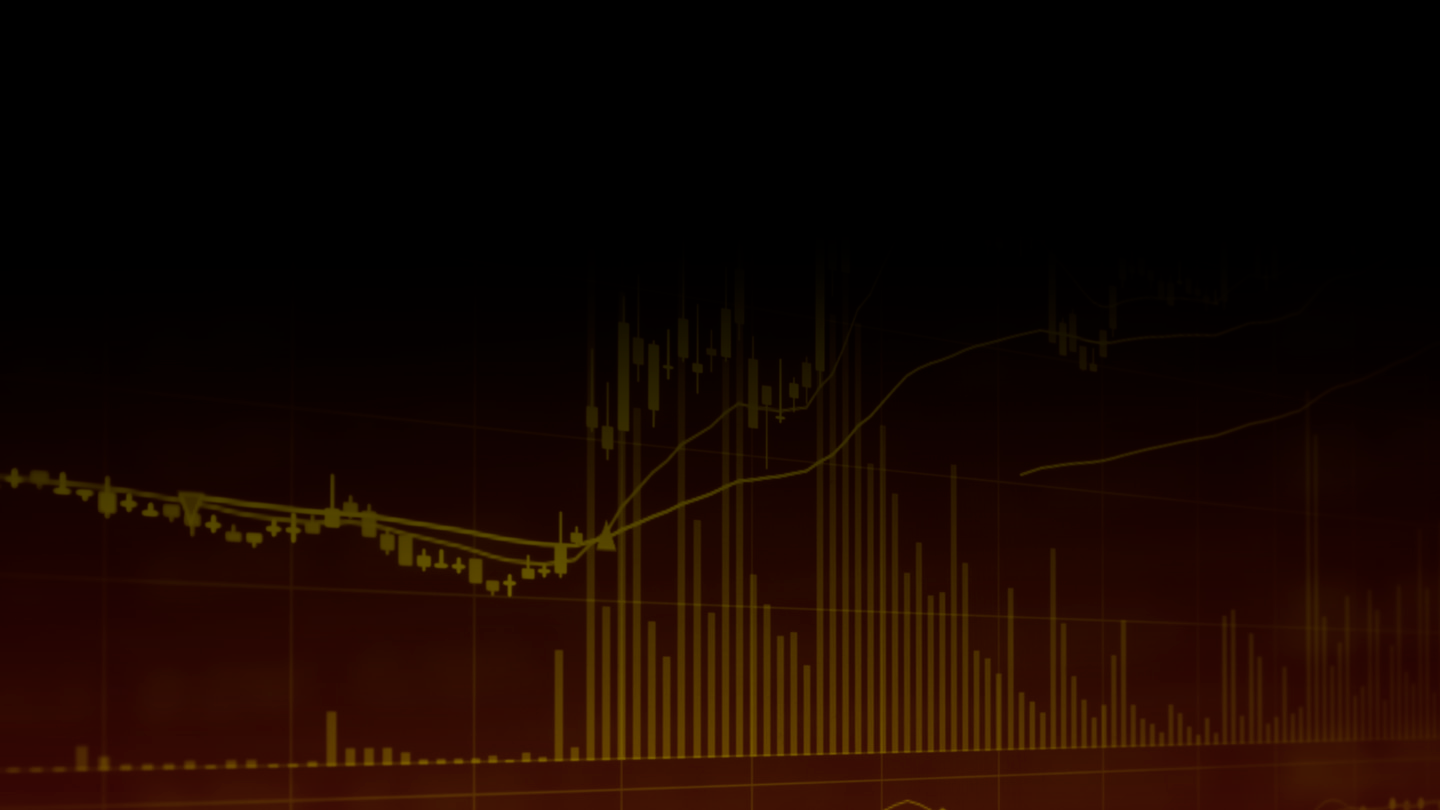
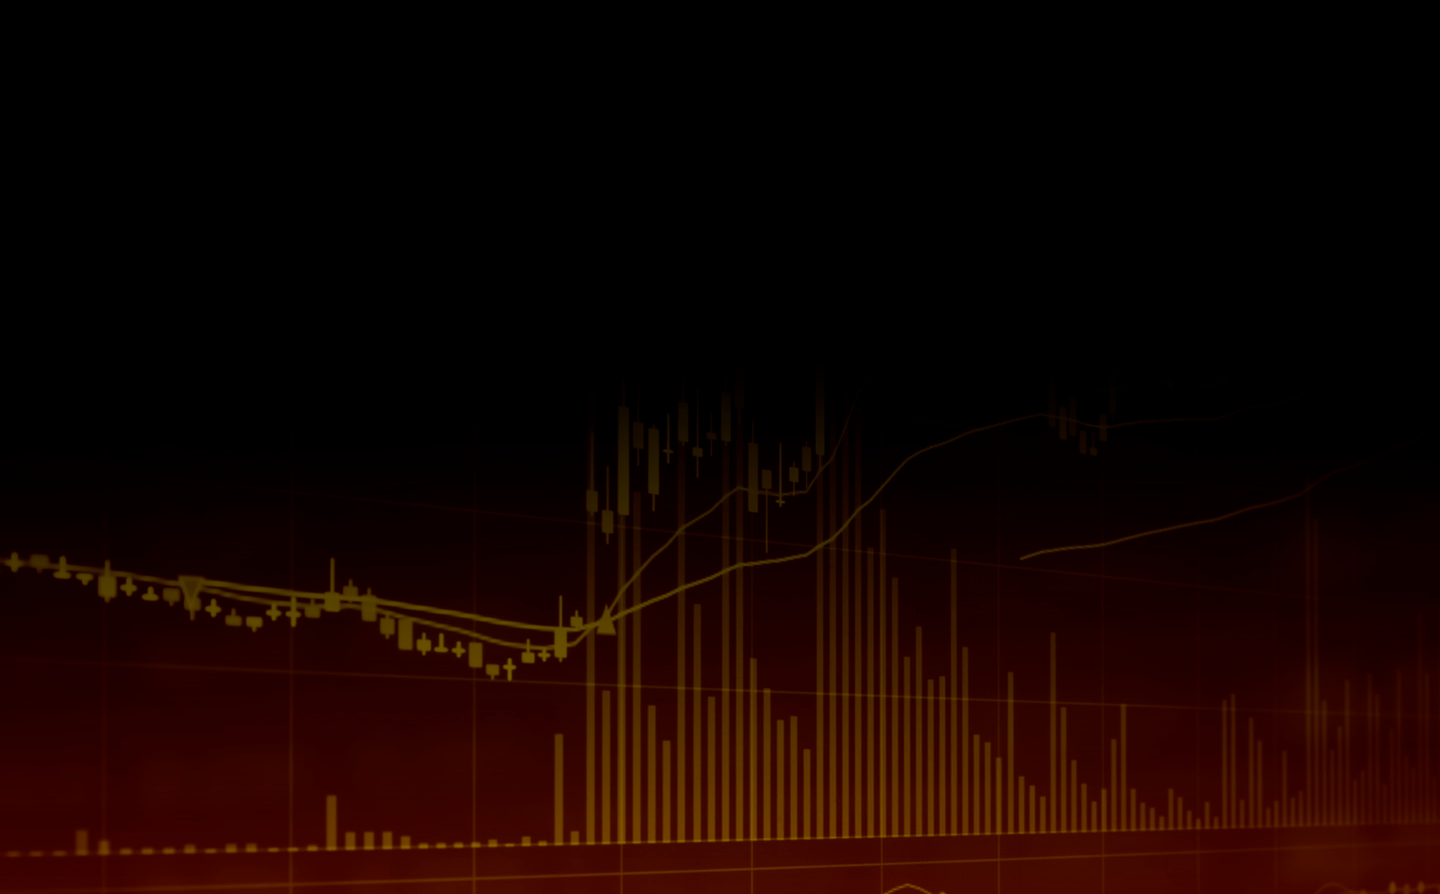
Correção de bugs imagem da section ead

diff --git a/style.css b/style.css
@@ -494,6 +494,12 @@ i.fa.fa-user {
 .store-area {
   background:#000;
   padding: 120px;
+  z-index: 999999;
+  background: linear-gradient(to bottom right, #18191e 50%, transparent 50.5%) no-repeat bottom, 
+  /* bottom part */ linear-gradient(0deg, #18191e, #18191e) no-repeat top;
+  color: white;
+  padding-bottom: 3em;
+  background-size: 100% 3em, 100% calc(105% - 5em);
 }
 .store-area .blog_content .blog_item {
   margin-bottom: 30px;
@@ -578,9 +584,8 @@ i.fa.fa-user {
   font-size: 20px;
 }
 .store-area .blog_content .owl-nav {
-  display: block;
+  display: none;
 }
-
 
 /* :: 6.0 Welcome Area CSS */
 .hero-slides {
@@ -680,10 +685,9 @@ section.cryptos-about-area {
 
 /* :: 7.0 Section-ead-area */
 section.ead-area {
-    height: 810px;
+    height:894px;
     background-image: url(img/bg-img/fundo-ead.png);
 }
-
 .ead-area p span {
   font-weight: 600;
   font-style: italic;
@@ -692,14 +696,21 @@ section.ead-area {
   line-height: 2px;
 }
 
-
+@media only screen and (max-width: 767px){
+  .ead-area .about-thumbnail img {
+      position: relative;
+      bottom: 120px;
+  }
+}
 
 /* :: 8.0 Currency Calculator Area CSS */
 .currency-calculator-area {
   position: relative;
   padding: 130px;
-  z-index: 1;
-  background-attachment: fixed; }
+  z-index: -1;
+  top: -41px;
+  background-attachment: fixed; 
+}
 
 .section-heading h3.mb-4 {
     font-style: oblique;
@@ -1027,6 +1038,7 @@ p.p-junte-se {
   background: #0d104d;
   background: -webkit-linear-gradient(to right, #0d104d, #28408b);
   background: linear-gradient(to right, #0d104d, #28408b); }
+ead-area
   @media only screen and (max-width: 767px) {
     .breadcumb-area {
       height: 130px; } }

diff --git a/index.html b/index.html
@@ -175,7 +175,7 @@
                 </div>
                 <div class="col-12 col-md-6">
                     <div class="about-thumbnail mb-100">
-                        <img src="img/bg-img/breadcumb.png" alt="">
+                        <img class="img-fluid" src="img/bg-img/breadcumb.png" alt="">
                     </div>
                 </div>                
             </div>
@@ -207,7 +207,7 @@
                 </div>
                 <div class="col-12 col-md-6 text-center">
                     <div class="about-thumbnail mb-100">
-                        <img src="img/bg-img/ead.png" alt="">
+                        <img class="img-fluid" src="img/bg-img/ead.png" alt="">
                     </div>
                 </div>                
             </div>
